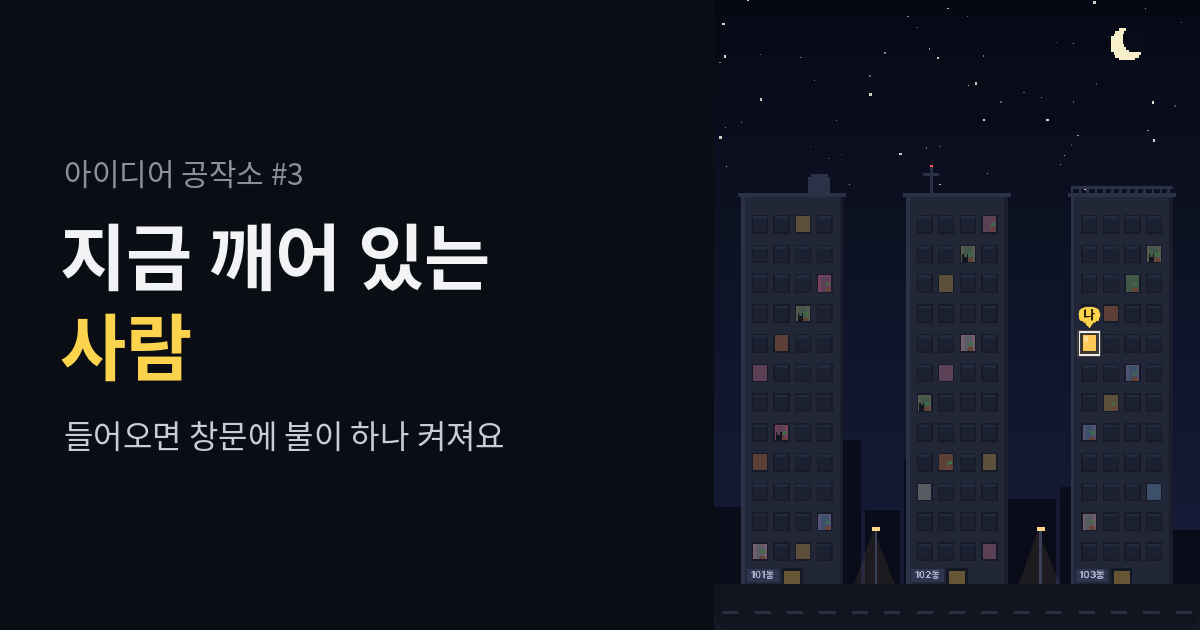
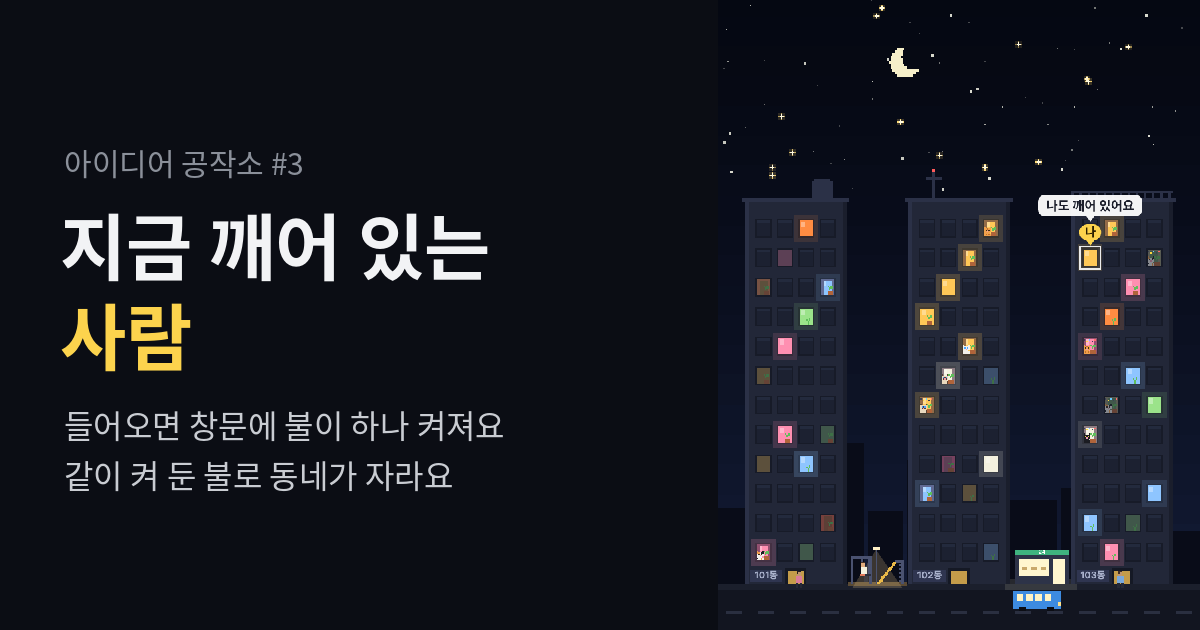
[awake] ui개선

diff --git a/awake/index.html b/awake/index.html
@@ -18,11 +18,11 @@
 
   <!-- 글꼴: Pretendard (윈도우에서도 또렷하게) -->
   <link rel="stylesheet" href="https://cdn.jsdelivr.net/gh/orioncactus/pretendard@v1.3.9/dist/web/variable/pretendardvariable-dynamic-subset.min.css">
-  <link rel="stylesheet" href="style.css?v=16">
+  <link rel="stylesheet" href="style.css?v=17">
   <!-- DB (Supabase) -->
   <script src="https://cdn.jsdelivr.net/npm/@supabase/supabase-js@2"></script>
   <script src="sound.js?v=2" defer></script>
-  <script src="script.js?v=22" defer></script>
+  <script src="script.js?v=23" defer></script>
   <script src="../visit-counter.js?v=4" defer></script>
 </head>
 <body>
@@ -59,9 +59,6 @@
         <span id="nowCount" class="now-count">불 켜는 중…</span>
         <button id="findBtn" class="find-btn" type="button" hidden>📍 내 창문</button>
       </div>
-      <div class="sub-bar">
-        <span id="dayCount" class="day-count"></span>
-      </div>
 
       <!-- 반응·응원: 들어오자마자 누를 수 있게 -->
       <div id="react" class="react" hidden>
@@ -89,30 +86,34 @@
       </div>
     </section>
 
-    <!-- 집중 세션 -->
-    <section id="focus" class="focus" hidden>
-      <div class="focus-top">
-        <p id="focusTitle" class="focus-title">집중 세션</p>
-        <p id="focusLeft" class="focus-left"></p>
+    <!-- 오늘의 단지: 모두가 함께 만드는 것 (밤하늘 별 + 단지 목표) -->
+    <section id="townbox" class="townbox" hidden>
+      <!-- 집중 세션 → 별 -->
+      <div id="focus" class="focus" hidden>
+        <div class="focus-top">
+          <p id="focusTitle" class="focus-title">집중 세션</p>
+          <p id="focusLeft" class="focus-left"></p>
+        </div>
+        <div id="focusPick" class="focus-pick">
+          <button class="focus-go" type="button" data-min="30">30분 집중하고 별 띄우기</button>
+        </div>
+        <div id="focusRun" class="focus-run" hidden>
+          <div class="goal-bar"><div id="focusFill" class="goal-fill"></div></div>
+          <button id="focusStop" class="link-btn focus-stop" type="button">그만두기</button>
+        </div>
+        <p id="focusInfo" class="focus-info"></p>
       </div>
-      <div id="focusPick" class="focus-pick">
-        <button class="focus-go" type="button" data-min="30">30분 집중하고 별 띄우기</button>
-      </div>
-      <div id="focusRun" class="focus-run" hidden>
-        <div class="goal-bar"><div id="focusFill" class="goal-fill"></div></div>
-        <button id="focusStop" class="link-btn focus-stop" type="button">그만두기</button>
-      </div>
-      <p id="focusInfo" class="focus-info"></p>
-    </section>
 
-    <!-- 단지 공동 목표 -->
-    <section id="goal" class="goal" hidden>
-      <div class="goal-top">
-        <span id="goalTitle" class="goal-title"></span>
-        <span id="goalCount" class="goal-count"></span>
+      <!-- 단지 공동 목표 -->
+      <div class="townbox-line"></div>
+      <div id="goal" class="goal" hidden>
+        <div class="goal-top">
+          <span id="goalTitle" class="goal-title"></span>
+          <span id="goalCount" class="goal-count"></span>
+        </div>
+        <div class="goal-bar"><div id="goalFill" class="goal-fill"></div></div>
+        <p id="goalNext" class="goal-next"></p>
       </div>
-      <div class="goal-bar"><div id="goalFill" class="goal-fill"></div></div>
-      <p id="goalNext" class="goal-next"></p>
     </section>
 
     <!-- 불빛 달력 (잔디) -->
@@ -121,7 +122,7 @@
         <p class="days-title">불빛 달력</p>
         <p id="daysSum" class="days-sum"></p>
       </div>
-      <div id="daysGrid" class="days-grid" aria-label="최근 12주 동안 불을 켠 날"></div>
+      <div id="daysGrid" class="days-grid" aria-label="최근 4주 동안 불을 켠 날"></div>
       <div class="days-legend">
         <span>적게</span><i class="lv0"></i><i class="lv1"></i><i class="lv2"></i><i class="lv3"></i><i class="lv4"></i><span>많이</span>
       </div>
@@ -129,37 +130,40 @@
 
     <!-- 내 창문 -->
     <section id="mine" class="mine" hidden>
-      <div class="mine-top">
-        <p class="mine-title">🪟 내 창문 <b id="myAddr"></b></p>
-        <p id="myWaves" class="mine-visits"></p>
+      <div class="mine-head">
+        <canvas id="myView" class="win-view" width="264" height="300" aria-label="내 창문 가까이 보기"></canvas>
+        <div class="mine-info">
+          <p class="mine-title">내 창문 <b id="myAddr"></b></p>
+          <p id="growth" class="growth"></p>
+          <p id="myWaves" class="mine-visits"></p>
+        </div>
       </div>
 
-      <canvas id="myView" class="win-view" width="264" height="300" aria-label="내 창문 가까이 보기"></canvas>
-
-      <div class="field">
-        <p class="label">조명 색</p>
-        <div id="colors" class="swatches"></div>
-      </div>
-
-      <div class="field">
-        <p class="label">지금 뭐 해요?</p>
-        <div id="statuses" class="chips"></div>
-      </div>
-
-      <p id="growth" class="growth"></p>
-      <p class="move-hint">빈 창문을 누르면 이사할 수 있어요 (하루 1번)</p>
-      <p class="move-hint"><span id="skyWhere">하늘·날씨: 서울 기준</span> · <button id="skyToggle" class="link-btn" type="button">내 위치로 보기</button></p>
+      <details class="settings">
+        <summary>꾸미기 설정</summary>
+        <div class="settings-body">
+          <div class="field">
+            <p class="label">조명 색</p>
+            <div id="colors" class="swatches"></div>
+          </div>
+          <div class="field">
+            <p class="label">지금 뭐 해요?</p>
+            <div id="statuses" class="chips"></div>
+          </div>
+          <p class="move-hint">빈 창문을 누르면 이사할 수 있어요 (하루 1번)</p>
+          <p class="move-hint"><span id="skyWhere">하늘·날씨: 서울 기준</span> · <button id="skyToggle" class="link-btn" type="button">내 위치로 보기</button></p>
+        </div>
+      </details>
     </section>
 
-    <div class="actions">
-      <button id="moodBtn" class="btn btn-main" type="button">화면 켜 두기</button>
-      <p class="move-hint">화면이 꺼지지 않게 해서 시간이 계속 쌓여요</p>
+    <div class="actions actions-row">
+      <button id="moodBtn" class="btn btn-sub" type="button">화면 켜 두기</button>
       <button id="shareBtn" class="btn btn-sub" type="button">오늘 기록 카드</button>
     </div>
 
     <footer class="footer">
-      <p>화면이 켜져 있는 동안만 시간이 쌓여요 · 잠깐 나가도 3분까지는 괜찮아요 · 하루는 새벽 6시에 바뀌어요</p>
-      <p>위치는 이 기기에만 저장하고 날씨 조회에만 대략(약 10km) 써요 · 날씨 정보 <a class="credit" href="https://open-meteo.com/" target="_blank" rel="noopener">Open-Meteo</a></p>
+      <p>화면이 켜져 있는 동안만 시간이 쌓여요 · "화면 켜 두기"를 누르면 꺼지지 않아요 · 하루는 새벽 6시 기준</p>
+      <p>위치는 이 기기에만 저장 · 날씨 정보 <a class="credit" href="https://open-meteo.com/" target="_blank" rel="noopener">Open-Meteo</a></p>
       <p>의뢰: 공작소장 · 🛠 아이디어 공작소</p>
       <p id="visit-count" hidden style="font-size: 0.8rem; opacity: 0.6"></p>
       <p><a class="home-link" href="https://ge323.github.io/gongjakso/">다른 공작품 보러가기 →</a></p>

diff --git a/awake/script.js b/awake/script.js
@@ -62,7 +62,6 @@ const town = $("town");
 let tx = town.getContext("2d");          // 그리기 대상 (창문 확대 그릴 때 잠깐 바뀜)
 const scroller = $("scroller");
 const nowCountEl = $("nowCount");
-const dayCountEl = $("dayCount");
 const findBtn = $("findBtn");
 const peekEl = $("peek");
 const peekAddr = $("peekAddr");
@@ -1510,7 +1509,6 @@ function drawCloseUps() {
 function updateCounts() {
   if (!db) {
     nowCountEl.textContent = "준비 중이에요 🛠";
-    dayCountEl.textContent = "";
     return;
   }
   if (connected || realtimeFailed) {
@@ -1518,10 +1516,6 @@ function updateCounts() {
   } else {
     nowCountEl.textContent = myNo ? "내 창문에 불을 켰어요 · 이웃 찾는 중…" : "불 켜는 중…";
   }
-  const visited = new Set([...recent.keys(), ...online.keys()]);
-  dayCountEl.textContent = visited.size
-    ? `최근 24시간 동안 ${visited.size}명이 다녀갔어요`
-    : "";
 }
 
 function hms(sec) {
@@ -2306,6 +2300,7 @@ function sessionLeft() {
 
 function updateFocus() {
   const box = $("focus");
+  $("townbox").hidden = !db || !myNo;      // 오늘의 단지 칸 (별 + 단지 목표)
   if (!db || !myNo) { box.hidden = true; return; }
   box.hidden = false;
   const running = !!sessionGoal;
@@ -2431,13 +2426,16 @@ function dayLevel(sec) {
 function renderDays() {
   const box = $("days");
   if (!db || !myNo) { box.hidden = true; return; }
-  box.hidden = false;
   const today = nightKey();
   const base = new Date(today + "T00:00:00Z");
+  // 처음 온 사람에겐 빈 달력 대신 숨김: 불을 켠 날이 이틀 이상 생기면 보여 줌
+  const litDays = [...myDays.entries()].filter(([d, r]) => d !== today && r.s > 0).length + (myToday > 0 ? 1 : 0);
+  box.hidden = litDays < 2;
+  if (box.hidden) { renderDays.streak = 0; return; }
   const grid = $("daysGrid");
   const cells = [];
   let lit = 0, stars = 0;
-  for (let i = 83; i >= 0; i--) {
+  for (let i = 27; i >= 0; i--) {                 // 최근 4주
     const d = new Date(base.getTime() - i * 86400000).toISOString().slice(0, 10);
     const rec = myDays.get(d) || { s: 0, st: 0 };
     const sec = d === today ? Math.max(rec.s, myToday + liveExtra()) : rec.s;
@@ -2457,7 +2455,7 @@ function renderDays() {
     else if (i === 0) continue;
     else break;
   }
-  $("daysSum").innerHTML = `연속 <b>${streak}일</b> · 12주 중 ${lit}일`;
+  $("daysSum").innerHTML = `연속 <b>${streak}일</b> · 4주 중 ${lit}일`;
   renderDays.streak = streak;
 }
 

diff --git a/awake/style.css b/awake/style.css
@@ -586,6 +586,7 @@ body.is-mood {
 }
 
 body.is-mood .header,
+body.is-mood .townbox,
 body.is-mood .goal,
 body.is-mood .focus,
 body.is-mood .days,
@@ -665,10 +666,10 @@ body.is-mood .now-count {
 /* 내 창문 가까이 보기 */
 .win-view {
   display: block;
-  width: 100%;
-  max-width: 132px;
+  flex-shrink: 0;
+  width: 84px;
   height: auto;
-  margin: 0 auto;
+  margin: 0;
   border-radius: 12px;
   image-rendering: pixelated;
   background: #000;
@@ -795,9 +796,7 @@ body.is-mood .now-count {
 
 .days-grid {
   display: grid;
-  grid-template-rows: repeat(7, 1fr);
-  grid-auto-flow: column;
-  grid-auto-columns: 1fr;
+  grid-template-columns: repeat(14, 1fr);   /* 4주 = 14칸 × 2줄 */
   gap: 4px;
 }
 
@@ -901,6 +900,58 @@ body.is-mood .now-count {
   gap: 16px;
 }
 
+/* 내 창문: 왼쪽 확대 그림 + 오른쪽 정보 */
+.mine-head {
+  display: flex;
+  align-items: center;
+  gap: 14px;
+}
+
+.mine-info {
+  flex: 1;
+  min-width: 0;
+  display: flex;
+  flex-direction: column;
+  gap: 6px;
+}
+
+.mine-info .growth {
+  padding: 0;
+  background: none;
+  line-height: 1.55;
+}
+
+/* 꾸미기 설정 (접어 두기) */
+.settings summary {
+  cursor: pointer;
+  font-size: 13px;
+  font-weight: 700;
+  color: var(--muted);
+  padding: 10px 12px;
+  border-radius: 12px;
+  background: #1d2131;
+  list-style: none;
+}
+
+.settings summary::-webkit-details-marker {
+  display: none;
+}
+
+.settings summary::after {
+  content: " ▾";
+}
+
+.settings[open] summary::after {
+  content: " ▴";
+}
+
+.settings-body {
+  display: flex;
+  flex-direction: column;
+  gap: 14px;
+  padding-top: 14px;
+}
+
 .mine-top {
   display: flex;
   justify-content: space-between;
@@ -992,6 +1043,37 @@ body.is-mood .now-count {
   display: flex;
   flex-direction: column;
   gap: 10px;
+}
+
+.actions-row {
+  flex-direction: row;
+}
+
+.actions-row .btn {
+  flex: 1;
+  padding: 13px 8px;
+  font-size: 14px;
+}
+
+/* 오늘의 단지 (별 + 단지 목표를 한 칸에) */
+.townbox {
+  background: var(--card);
+  border-radius: 16px;
+  padding: 14px 16px;
+}
+
+.townbox .focus,
+.townbox .goal {
+  background: none;
+  padding: 0;
+  border-radius: 0;
+  box-shadow: none !important;
+}
+
+.townbox-line {
+  height: 1px;
+  background: var(--line);
+  margin: 14px 0;
 }
 
 .btn {
